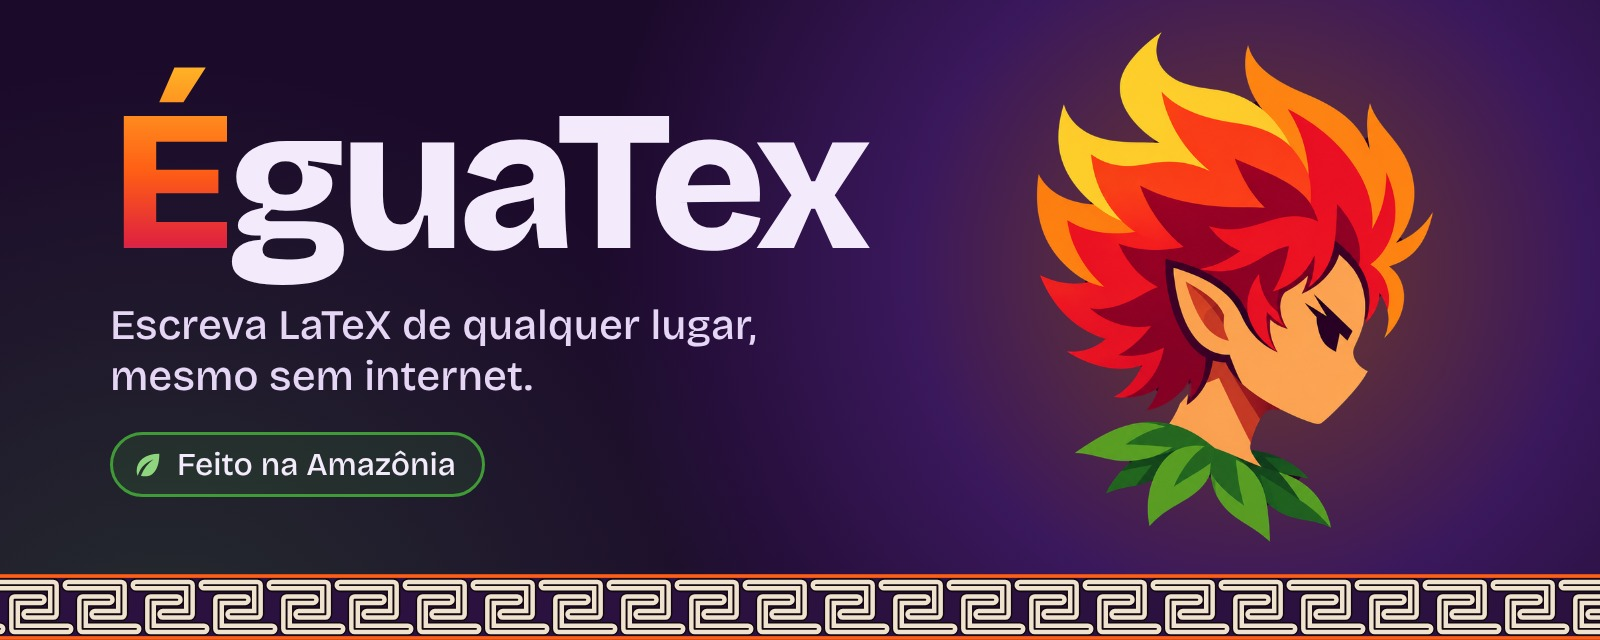
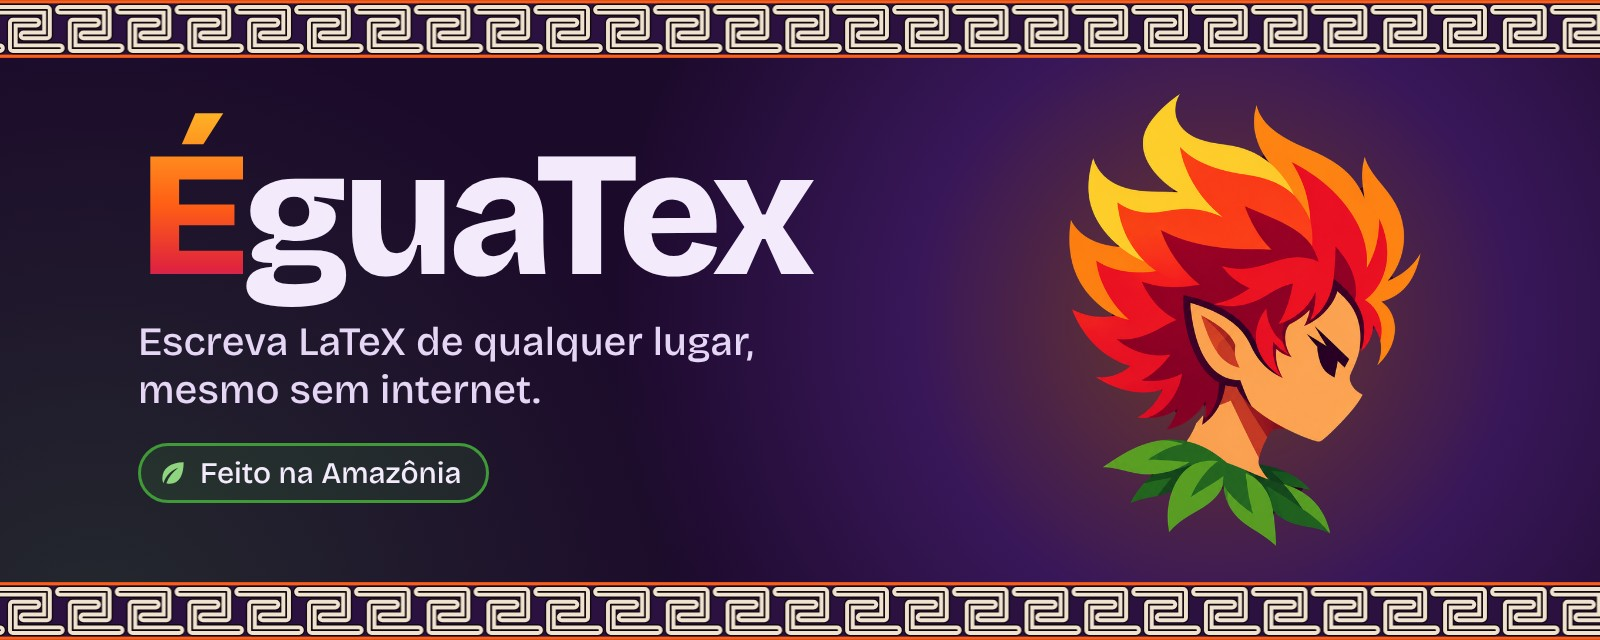
Capa com a tira marajoara em cima e embaixo e descrição sem citar sistemas

diff --git a/index.html b/index.html
@@ -4,20 +4,20 @@
   <meta charset="utf-8">
   <meta name="viewport" content="width=device-width, initial-scale=1">
   <title>ÉguaTex: editor LaTeX feito na Amazônia</title>
-  <meta name="description" content="ÉguaTex é um editor LaTeX gratuito e offline para Windows e Android, criado na Amazônia. Baixe o instalador e experimente fórmulas direto no navegador.">
+  <meta name="description" content="ÉguaTex é um editor LaTeX gratuito e offline, criado na Amazônia. Escreva de qualquer lugar, mesmo sem internet. Conheça já!">
   <meta name="theme-color" content="#1c0a2b">
-  <link rel="icon" href="/favicon.ico?v=www1" sizes="any">
-  <link rel="icon" type="image/png" sizes="48x48" href="/favicon-48.png?v=www1">
-  <link rel="icon" type="image/png" sizes="192x192" href="/favicon.png?v=www1">
-  <link rel="apple-touch-icon" href="/apple-touch-icon.png?v=www1">
-  <link rel="manifest" href="/site.webmanifest?v=www1">
+  <link rel="icon" href="/favicon.ico?v=www2" sizes="any">
+  <link rel="icon" type="image/png" sizes="48x48" href="/favicon-48.png?v=www2">
+  <link rel="icon" type="image/png" sizes="192x192" href="/favicon.png?v=www2">
+  <link rel="apple-touch-icon" href="/apple-touch-icon.png?v=www2">
+  <link rel="manifest" href="/site.webmanifest?v=www2">
   <link rel="canonical" href="https://www.eguatex.com.br/">
   <meta property="og:site_name" content="ÉguaTex">
   <meta property="og:type" content="website">
   <meta property="og:locale" content="pt_BR">
   <meta property="og:url" content="https://www.eguatex.com.br/">
   <meta property="og:title" content="ÉguaTex: editor LaTeX feito na Amazônia">
-  <meta property="og:description" content="ÉguaTex é um editor LaTeX gratuito e offline para Windows e Android, criado na Amazônia. Baixe o instalador e experimente fórmulas direto no navegador.">
+  <meta property="og:description" content="ÉguaTex é um editor LaTeX gratuito e offline, criado na Amazônia. Escreva de qualquer lugar, mesmo sem internet. Conheça já!">
   <meta property="og:image" content="https://www.eguatex.com.br/assets/img/compartilhar.jpg">
   <meta property="og:image:width" content="1200">
   <meta property="og:image:height" content="630">

diff --git a/instalar.html b/instalar.html
@@ -4,20 +4,20 @@
   <meta charset="utf-8">
   <meta name="viewport" content="width=device-width, initial-scale=1">
   <title>Como instalar | ÉguaTex</title>
-  <meta name="description" content="Como instalar o ÉguaTex no Windows e no Android, passo a passo, e como usar outra distribuição LaTeX, como MiKTeX ou TeX Live.">
+  <meta name="description" content="Como instalar o ÉguaTex no computador ou no celular, passo a passo, e como usar outra distribuição LaTeX, como MiKTeX ou TeX Live.">
   <meta name="theme-color" content="#1c0a2b">
-  <link rel="icon" href="/favicon.ico?v=www1" sizes="any">
-  <link rel="icon" type="image/png" sizes="48x48" href="/favicon-48.png?v=www1">
-  <link rel="icon" type="image/png" sizes="192x192" href="/favicon.png?v=www1">
-  <link rel="apple-touch-icon" href="/apple-touch-icon.png?v=www1">
-  <link rel="manifest" href="/site.webmanifest?v=www1">
+  <link rel="icon" href="/favicon.ico?v=www2" sizes="any">
+  <link rel="icon" type="image/png" sizes="48x48" href="/favicon-48.png?v=www2">
+  <link rel="icon" type="image/png" sizes="192x192" href="/favicon.png?v=www2">
+  <link rel="apple-touch-icon" href="/apple-touch-icon.png?v=www2">
+  <link rel="manifest" href="/site.webmanifest?v=www2">
   <link rel="canonical" href="https://www.eguatex.com.br/instalar.html">
   <meta property="og:site_name" content="ÉguaTex">
   <meta property="og:type" content="website">
   <meta property="og:locale" content="pt_BR">
   <meta property="og:url" content="https://www.eguatex.com.br/instalar.html">
   <meta property="og:title" content="Como instalar | ÉguaTex">
-  <meta property="og:description" content="Como instalar o ÉguaTex no Windows e no Android, passo a passo, e como usar outra distribuição LaTeX, como MiKTeX ou TeX Live.">
+  <meta property="og:description" content="Como instalar o ÉguaTex no computador ou no celular, passo a passo, e como usar outra distribuição LaTeX, como MiKTeX ou TeX Live.">
   <meta property="og:image" content="https://www.eguatex.com.br/assets/img/compartilhar.jpg">
   <meta property="og:image:width" content="1200">
   <meta property="og:image:height" content="630">

diff --git a/templates.html b/templates.html
@@ -6,11 +6,11 @@
   <title>Templates | ÉguaTex</title>
   <meta name="description" content="Templates LaTeX do ÉguaTex em português: TCC no padrão ABNT, artigos, teses, slides, pôsteres, currículos, ofícios e mais.">
   <meta name="theme-color" content="#1c0a2b">
-  <link rel="icon" href="/favicon.ico?v=www1" sizes="any">
-  <link rel="icon" type="image/png" sizes="48x48" href="/favicon-48.png?v=www1">
-  <link rel="icon" type="image/png" sizes="192x192" href="/favicon.png?v=www1">
-  <link rel="apple-touch-icon" href="/apple-touch-icon.png?v=www1">
-  <link rel="manifest" href="/site.webmanifest?v=www1">
+  <link rel="icon" href="/favicon.ico?v=www2" sizes="any">
+  <link rel="icon" type="image/png" sizes="48x48" href="/favicon-48.png?v=www2">
+  <link rel="icon" type="image/png" sizes="192x192" href="/favicon.png?v=www2">
+  <link rel="apple-touch-icon" href="/apple-touch-icon.png?v=www2">
+  <link rel="manifest" href="/site.webmanifest?v=www2">
   <link rel="canonical" href="https://www.eguatex.com.br/templates.html">
   <meta property="og:site_name" content="ÉguaTex">
   <meta property="og:type" content="website">

diff --git a/instalar-latex.html b/instalar-latex.html
@@ -7,11 +7,11 @@
   <meta http-equiv="refresh" content="0; url=instalar.html#outras-distribuicoes">
   <link rel="canonical" href="https://www.eguatex.com.br/instalar.html#outras-distribuicoes">
   <meta name="robots" content="noindex">
-  <link rel="icon" href="/favicon.ico?v=www1" sizes="any">
-  <link rel="icon" type="image/png" sizes="48x48" href="/favicon-48.png?v=www1">
-  <link rel="icon" type="image/png" sizes="192x192" href="/favicon.png?v=www1">
-  <link rel="apple-touch-icon" href="/apple-touch-icon.png?v=www1">
-  <link rel="manifest" href="/site.webmanifest?v=www1">
+  <link rel="icon" href="/favicon.ico?v=www2" sizes="any">
+  <link rel="icon" type="image/png" sizes="48x48" href="/favicon-48.png?v=www2">
+  <link rel="icon" type="image/png" sizes="192x192" href="/favicon.png?v=www2">
+  <link rel="apple-touch-icon" href="/apple-touch-icon.png?v=www2">
+  <link rel="manifest" href="/site.webmanifest?v=www2">
   <style>body{background:#1c0a2b;color:#f3eafb;font-family:system-ui,sans-serif;padding:24px}a{color:#ffb627}</style>
   <script>location.replace("instalar.html#outras-distribuicoes");</script>
 </head>

diff --git a/contato.html b/contato.html
@@ -6,11 +6,11 @@
   <title>Contato | ÉguaTex</title>
   <meta name="description" content="Fale com a equipe do ÉguaTex: envie sugestões, relate problemas ou tire dúvidas pelo e-mail contatoeguatex@gmail.com.">
   <meta name="theme-color" content="#1c0a2b">
-  <link rel="icon" href="/favicon.ico?v=www1" sizes="any">
-  <link rel="icon" type="image/png" sizes="48x48" href="/favicon-48.png?v=www1">
-  <link rel="icon" type="image/png" sizes="192x192" href="/favicon.png?v=www1">
-  <link rel="apple-touch-icon" href="/apple-touch-icon.png?v=www1">
-  <link rel="manifest" href="/site.webmanifest?v=www1">
+  <link rel="icon" href="/favicon.ico?v=www2" sizes="any">
+  <link rel="icon" type="image/png" sizes="48x48" href="/favicon-48.png?v=www2">
+  <link rel="icon" type="image/png" sizes="192x192" href="/favicon.png?v=www2">
+  <link rel="apple-touch-icon" href="/apple-touch-icon.png?v=www2">
+  <link rel="manifest" href="/site.webmanifest?v=www2">
   <link rel="canonical" href="https://www.eguatex.com.br/contato.html">
   <meta property="og:site_name" content="ÉguaTex">
   <meta property="og:type" content="website">

diff --git a/termos.html b/termos.html
@@ -6,11 +6,11 @@
   <title>Termos de uso | ÉguaTex</title>
   <meta name="description" content="Condições de uso do ÉguaTex, editor LaTeX gratuito e de código aberto.">
   <meta name="theme-color" content="#1c0a2b">
-  <link rel="icon" href="/favicon.ico?v=www1" sizes="any">
-  <link rel="icon" type="image/png" sizes="48x48" href="/favicon-48.png?v=www1">
-  <link rel="icon" type="image/png" sizes="192x192" href="/favicon.png?v=www1">
-  <link rel="apple-touch-icon" href="/apple-touch-icon.png?v=www1">
-  <link rel="manifest" href="/site.webmanifest?v=www1">
+  <link rel="icon" href="/favicon.ico?v=www2" sizes="any">
+  <link rel="icon" type="image/png" sizes="48x48" href="/favicon-48.png?v=www2">
+  <link rel="icon" type="image/png" sizes="192x192" href="/favicon.png?v=www2">
+  <link rel="apple-touch-icon" href="/apple-touch-icon.png?v=www2">
+  <link rel="manifest" href="/site.webmanifest?v=www2">
   <link rel="canonical" href="https://www.eguatex.com.br/termos.html">
   <meta property="og:site_name" content="ÉguaTex">
   <meta property="og:type" content="website">

diff --git a/modelo.html b/modelo.html
@@ -6,11 +6,11 @@
   <title>Modelo | ÉguaTex</title>
   <meta name="description" content="Modelo LaTeX gratuito do ÉguaTex, em domínio público: prévias, PDF e código-fonte para baixar.">
   <meta name="theme-color" content="#1c0a2b">
-  <link rel="icon" href="/favicon.ico?v=www1" sizes="any">
-  <link rel="icon" type="image/png" sizes="48x48" href="/favicon-48.png?v=www1">
-  <link rel="icon" type="image/png" sizes="192x192" href="/favicon.png?v=www1">
-  <link rel="apple-touch-icon" href="/apple-touch-icon.png?v=www1">
-  <link rel="manifest" href="/site.webmanifest?v=www1">
+  <link rel="icon" href="/favicon.ico?v=www2" sizes="any">
+  <link rel="icon" type="image/png" sizes="48x48" href="/favicon-48.png?v=www2">
+  <link rel="icon" type="image/png" sizes="192x192" href="/favicon.png?v=www2">
+  <link rel="apple-touch-icon" href="/apple-touch-icon.png?v=www2">
+  <link rel="manifest" href="/site.webmanifest?v=www2">
   <meta property="og:site_name" content="ÉguaTex">
   <meta property="og:type" content="website">
   <meta property="og:locale" content="pt_BR">

diff --git a/categoria.html b/categoria.html
@@ -6,11 +6,11 @@
   <title>Modelos | ÉguaTex</title>
   <meta name="description" content="Modelos LaTeX gratuitos do ÉguaTex, em domínio público, separados por categoria.">
   <meta name="theme-color" content="#1c0a2b">
-  <link rel="icon" href="/favicon.ico?v=www1" sizes="any">
-  <link rel="icon" type="image/png" sizes="48x48" href="/favicon-48.png?v=www1">
-  <link rel="icon" type="image/png" sizes="192x192" href="/favicon.png?v=www1">
-  <link rel="apple-touch-icon" href="/apple-touch-icon.png?v=www1">
-  <link rel="manifest" href="/site.webmanifest?v=www1">
+  <link rel="icon" href="/favicon.ico?v=www2" sizes="any">
+  <link rel="icon" type="image/png" sizes="48x48" href="/favicon-48.png?v=www2">
+  <link rel="icon" type="image/png" sizes="192x192" href="/favicon.png?v=www2">
+  <link rel="apple-touch-icon" href="/apple-touch-icon.png?v=www2">
+  <link rel="manifest" href="/site.webmanifest?v=www2">
   <meta property="og:site_name" content="ÉguaTex">
   <meta property="og:type" content="website">
   <meta property="og:locale" content="pt_BR">

diff --git a/privacidade.html b/privacidade.html
@@ -6,11 +6,11 @@
   <title>Política de privacidade | ÉguaTex</title>
   <meta name="description" content="Como o ÉguaTex trata os seus dados.">
   <meta name="theme-color" content="#1c0a2b">
-  <link rel="icon" href="/favicon.ico?v=www1" sizes="any">
-  <link rel="icon" type="image/png" sizes="48x48" href="/favicon-48.png?v=www1">
-  <link rel="icon" type="image/png" sizes="192x192" href="/favicon.png?v=www1">
-  <link rel="apple-touch-icon" href="/apple-touch-icon.png?v=www1">
-  <link rel="manifest" href="/site.webmanifest?v=www1">
+  <link rel="icon" href="/favicon.ico?v=www2" sizes="any">
+  <link rel="icon" type="image/png" sizes="48x48" href="/favicon-48.png?v=www2">
+  <link rel="icon" type="image/png" sizes="192x192" href="/favicon.png?v=www2">
+  <link rel="apple-touch-icon" href="/apple-touch-icon.png?v=www2">
+  <link rel="manifest" href="/site.webmanifest?v=www2">
   <link rel="canonical" href="https://www.eguatex.com.br/privacidade.html">
   <meta property="og:site_name" content="ÉguaTex">
   <meta property="og:type" content="website">
